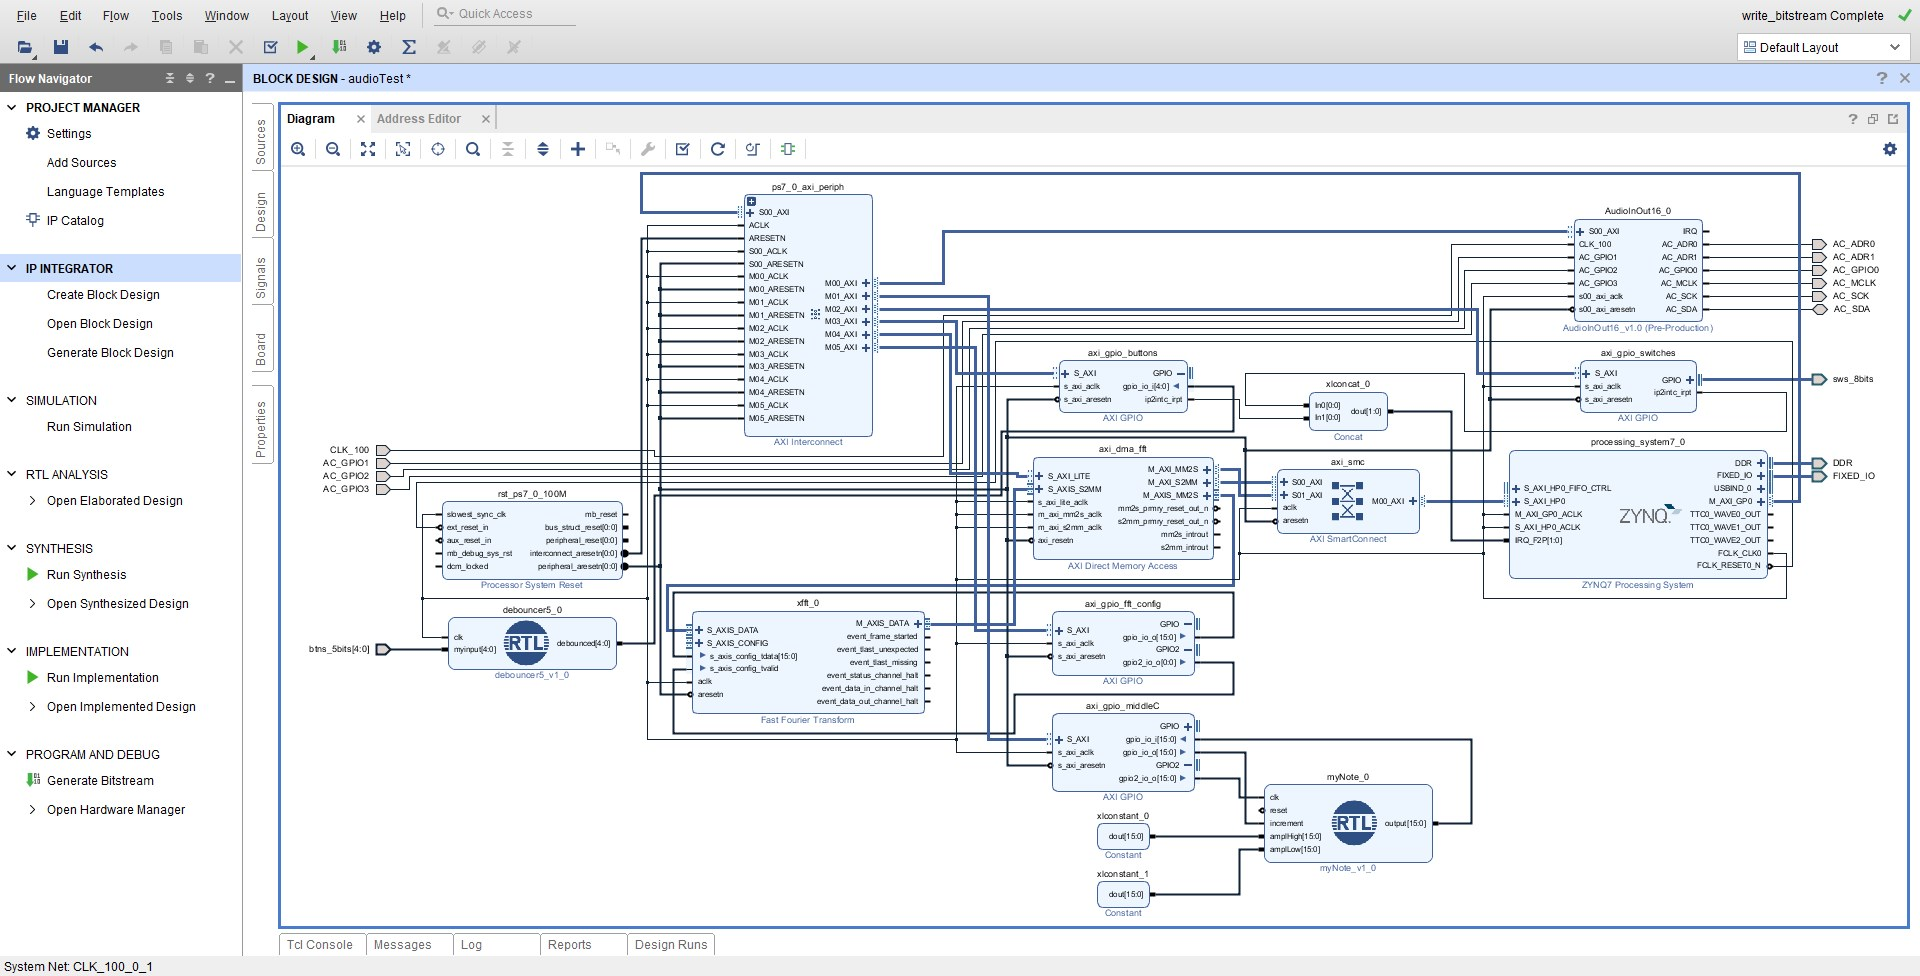
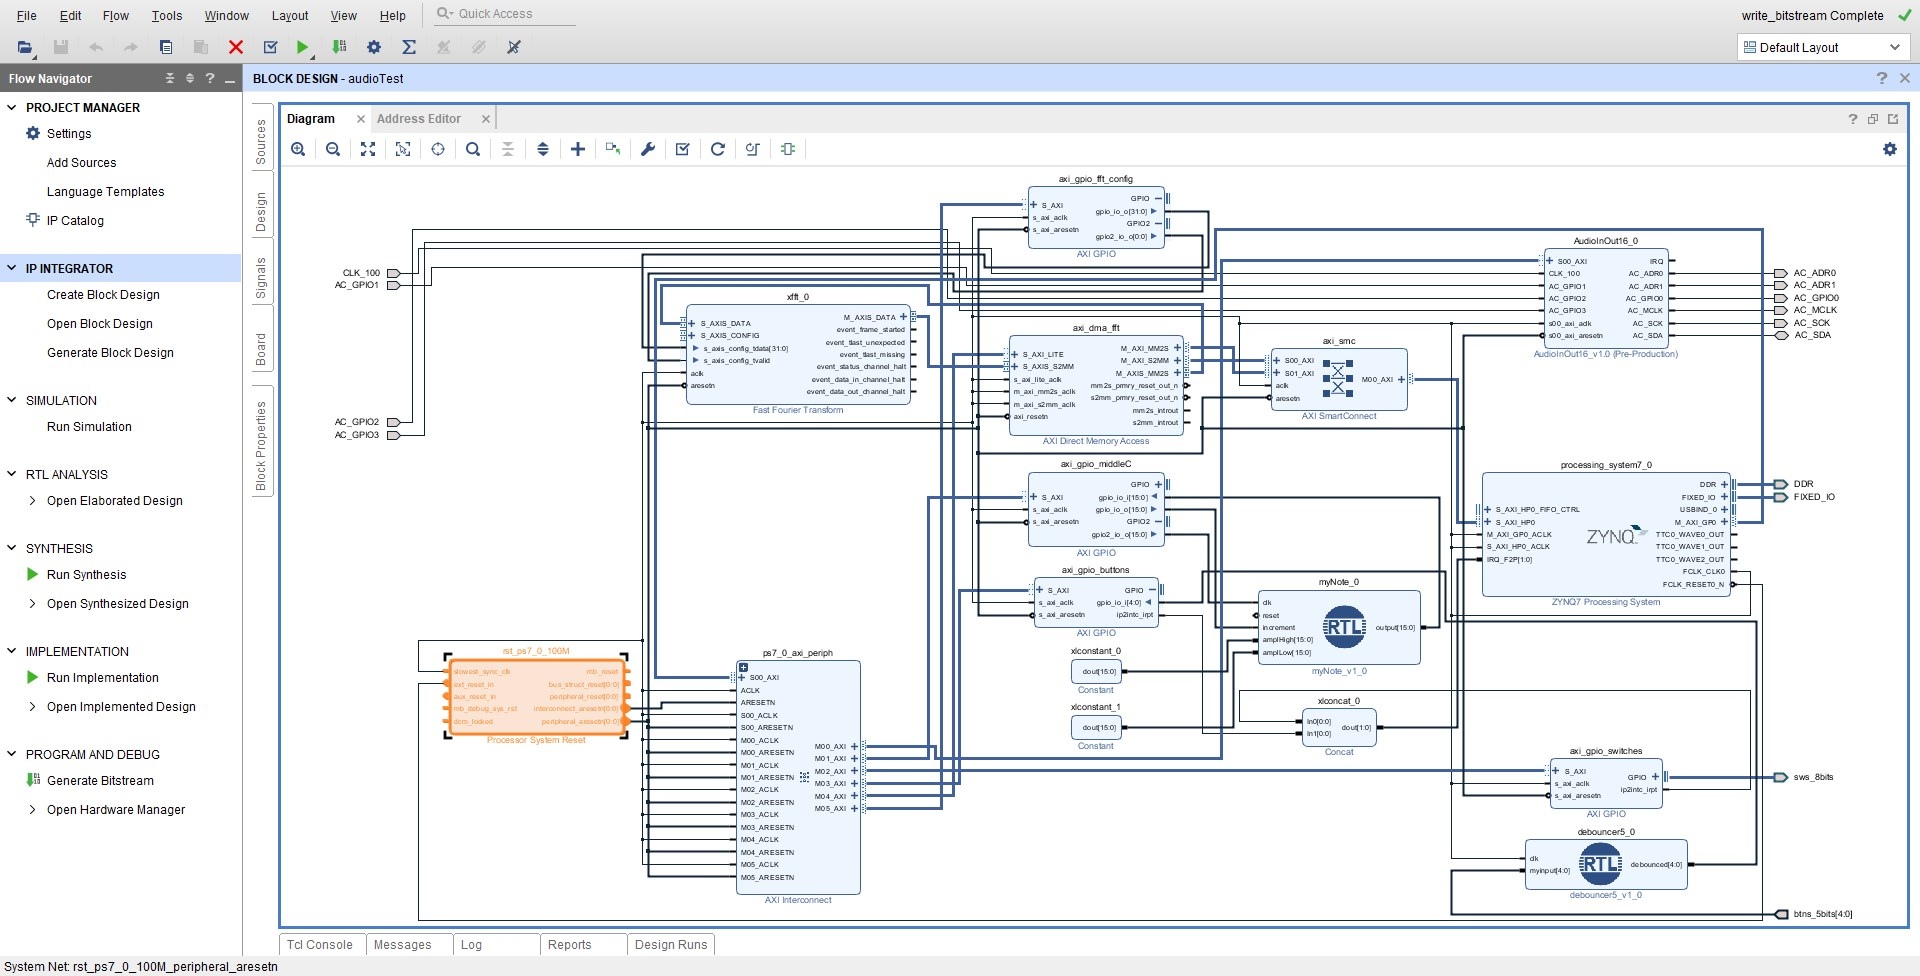
Change the AXI FFT to use 64-points instead of 8.

diff --git a/sdk/audioTest/src/helloworld.c b/sdk/audioTest/src/helloworld.c
@@ -73,7 +73,9 @@ volatile u32* AUDIOCHIP = ((volatile u32*)XPAR_AUDIOINOUT16_0_S00_AXI_BASEADDR);
 #define DEVICE_ID_TIMER					XPAR_PS7_SCUTIMER_0_DEVICE_ID
 #define DDR_BASE                  		XPAR_PS7_DDR_0_S_AXI_BASEADDR
 #define TX_BUFFER_BASE             		(DDR_BASE + 0x00100000)
+#define MX_BUFFER_BASE            		(DDR_BASE + 0x00300000)
 #define RX_BUFFER_BASE            		(DDR_BASE + 0x00400000)
+#define RX_SHIFT_BUFFER_BASE      		(DDR_BASE + 0x00500000)
 
 //#define INTERRUPTCONTROLLER_ADDRESS		XPAR_AXI_INTC_0_BASEADDR
 
@@ -91,6 +93,11 @@ static XScuTimer psTimer;					// PS Timer.
 static XScuTimer_Config *psTimerConfig;		// PS Timer config.
 int switches;
 
+// This function is responsible for getting data from audio FIFO 64 samples at a time
+// stores 64 samples in memory then sends it to FFT, then to IFFT
+void audioDriver();
+void getAudioData(); 
+void sendAudioData(); 
 // Initialize GPIO peripherals and the PS interrupt controller
 int initializePeripherals();
 
@@ -99,17 +106,28 @@ int initializePeripherals();
 // - Populates DDR with a test vector.
 // - Does a data transfer to and from the FFT core via the DMA
 //   to perform a forward FFT.
-int XAxiDma_FftDataTransfer(u16 DeviceId);
+int XAxiDma_FftDataTransfer(u16 DeviceId, volatile u64* TxBuf, volatile u64* RxBuf);
 
-// This function sets up the FFT core.
+//mirrors image
+int XAxiDma_IFftDataTransfer(u16 DeviceId);
+
+// This function sets up the FFT core with forward FFT.
 int XGpio_FftConfig();
+
+// This function configures the FFT core with inverse FFT
+//To get back the original data
+int XGpio_IFftConfig();
+
+//This function is to shift the IFFT output back
+void shiftBits(volatile u64* RxBuf);
+
 
 // This function is a loop to test the audio with GPIO switches.
 void audioLoop();
 
 int main()
 {
-	int status;
+
     init_platform();
 
     initializePeripherals();
@@ -136,12 +154,21 @@ int main()
 
     print("Hello World\n\r");
 
-    status = XAxiDma_FftDataTransfer(DEVICE_ID_DMA);
 
-	if (status != XST_SUCCESS) {
-		xil_printf("XAxiDma_SimplePoll Example Failed\r\n");
-		return XST_FAILURE;
-	}
+
+
+    // test data
+    /*TxBufferPtr[0] = 0x0000000000004000;
+    TxBufferPtr[1] = 0x00000000c6fae2f2;
+    TxBufferPtr[2] = 0x0000000033c7da62;
+    TxBufferPtr[3] = 0x000000000a033f36;
+    TxBufferPtr[4] = 0x00000000c322ec39;
+    TxBufferPtr[5] = 0x000000002d41d2bf;
+    TxBufferPtr[6] = 0x0000000013c73cde;
+    TxBufferPtr[7] = 0x00000000c0caf5fd;*/
+
+    audioDriver();
+
 
 	xil_printf("Successfully ran XAxiDma_SimplePoll Example\r\n");
 
@@ -229,12 +256,113 @@ int initializePeripherals() {
 	return status;
 }
 
+void audioDriver() {
+// first step is to read in 64 samples from
+
+	u32 dataIn = 0;
+	u32 dataOut = 0;
+	u32 temp = 0;
+	u32 tempLeft = 0;
+	u32 tempRight = 0;
+
+	int configStatus, status;
+
+	volatile u64 *TxBufferPtr;
+    volatile u64 *MxBufferPtr;
+    volatile u64 *RxBufferPtr;
+	volatile u64 *RxShiftBufferPtr;
+
+    TxBufferPtr = (u64 *)TX_BUFFER_BASE;
+    MxBufferPtr = (u64 *)MX_BUFFER_BASE;
+    RxBufferPtr = (u64 *)RX_BUFFER_BASE;
+	RxShiftBufferPtr = (u64 *)RX_SHIFT_BUFFER_BASE;
+	// loop on audio
+	while (1) {
+		//keep looping until we've read in 64 data samples
+		dataIn = 0;
+		while (dataIn < 64){
+			// check if the ADC FIFO is not empty
+			if ((AUDIOCHIP[0] & 1<<2)==0){
+				// get right and left channel
+				// pad with 0s for 64bit input to FFT
+				//0000RRRR0000LLLL
+				temp = AUDIOCHIP[2];
+				tempRight = temp & 0xFFFF0000;
+				tempLeft = temp & 0xFFFF;
+				tempRight>>=16;
+				TxBufferPtr[dataIn] = (((u64)tempRight << 32) | tempLeft);
+				dataIn++;
+			}
+		}
+		configStatus = XGpio_FftConfig();
+		status = XAxiDma_FftDataTransfer(DEVICE_ID_DMA, TxBufferPtr, MxBufferPtr);
+
+		if (status != XST_SUCCESS) {
+			xil_printf("XAxiDma_SimplePoll Example Failed\r\n");
+		return XST_FAILURE;
+		}
+		// want to convert data back so we send it through IFFT
+
+		configStatus = XGpio_IFftConfig();
+		status = XAxiDma_FftDataTransfer(DEVICE_ID_DMA, MxBufferPtr, RxBufferPtr);
+
+		if (status != XST_SUCCESS) {
+				xil_printf("XAxiDma_SimplePoll Example Failed\r\n");
+				return XST_FAILURE;
+			}
+		//need to convert output because it is shifted by 3 bits
+		shiftBits(RxBufferPtr);
+		dataOut = 0;
+		//now we want to check the DAC
+		while(dataOut < 64){
+			// if DAC FIFO is not FULL we can write data to it
+			if ((AUDIOCHIP[0] & 1<<5)==0) {
+				tempRight = RxShiftBufferPtr[dataOut]>>16;
+				tempLeft = RxShiftBufferPtr[dataOut];
+				temp = (tempRight & 0xFFFF0000)| (tempLeft & 0xFFFF);
+				AUDIOCHIP[1] = temp;
+				dataOut++;
+			}
+		}
+
+	}
+}
+
+void shiftBits(volatile u64* RxBuf){
+
+	const uint POINT_SIZE = 64;
+	volatile u64 *RxShiftBufferPtr;
+	u64 temp[POINT_SIZE];
+	RxShiftBufferPtr = (u64 *)RX_SHIFT_BUFFER_BASE;
+
+	for (int i=0;i<POINT_SIZE;i++){
+		temp[i] = (RxBuf[i] << 6) & 0xFFFF; // the LSB part
+		temp[i] = (((RxBuf[i] & 0xFFFF0000) << 6) & 0xFFFF0000) | temp[i]; // concatenating as we go
+		temp[i] = (((RxBuf[i] & 0xFFFF00000000) << 6) & 0xFFFF00000000) | temp[i];
+		//for the last one do we need to & it again ? i don't think so lol
+		temp[i] = ((RxBuf[i] & 0xFFFF000000000000) << 6) | temp[i];
+
+		if (i==0)
+			RxShiftBufferPtr[i] = temp[i];
+		else {
+			RxShiftBufferPtr[POINT_SIZE-i] = temp[i];
+		}
+	}
+	// now need to swap the order  of the bits
+
+
+
+}
+
 // This function does the following:
 // - Initializes the DMA.
 // - Populates DDR with a test vector.
 // - Does a data transfer to and from the FFT core via the DMA
 //   to perform a forward FFT.
-int XAxiDma_FftDataTransfer(u16 DeviceId){
+int XAxiDma_FftDataTransfer(u16 DeviceId, volatile u64* TxBuf, volatile u64* RxBuf){
+
+
+	// making these pointers global for the purpose of using same FFT core for forward and inverse
 
 
 	//****************** Configure the DMA ***********************************/
@@ -242,26 +370,6 @@ int XAxiDma_FftDataTransfer(u16 DeviceId){
 	XAxiDma_Config *CfgPtr;
 	int Status;
 	//int Tries = NUMBER_OF_TRANSFERS;
-	volatile u64 *TxBufferPtr;
-	volatile u64 *RxBufferPtr;
-
-	TxBufferPtr = (u64 *)TX_BUFFER_BASE ;
-	RxBufferPtr = (u64 *)RX_BUFFER_BASE;
-
-	/***********************************************/
-	// initialize transmission buffer  with sample data
-	//Simulated with a complex sinusoid from 0 to 2pi with
-	//2.6 times the frame size
-	TxBufferPtr[0] = 0x0000000000004000;
-	TxBufferPtr[1] = 0x00000000c6fae2f2;
-	TxBufferPtr[2] = 0x0000000033c7da62;
-	TxBufferPtr[3] = 0x000000000a033f36;
-	TxBufferPtr[4] = 0x00000000c322ec39;
-	TxBufferPtr[5] = 0x000000002d41d2bf;
-	TxBufferPtr[6] = 0x0000000013c73cde;
-	TxBufferPtr[7] = 0x00000000c0caf5fd;
-
-
 	/* Initialize the XAxiDma device.
 	 */
 	CfgPtr = XAxiDma_LookupConfig(DeviceId);
@@ -292,22 +400,22 @@ int XAxiDma_FftDataTransfer(u16 DeviceId){
 
 
 	// flush the cache
-	Xil_DCacheFlushRange((UINTPTR)TxBufferPtr, 0x40);
+	Xil_DCacheFlushRange((UINTPTR)TxBuf, 0x200);
 	//#ifdef __aarch64__
-		Xil_DCacheFlushRange((UINTPTR)RxBufferPtr, 0x40);
+		Xil_DCacheFlushRange((UINTPTR)RxBuf, 0x200);
 	//#endif
 
 		/**********************Start data transfer with FFT***************************/
 		//
-			Status = XAxiDma_SimpleTransfer(&axiDma,(UINTPTR) RxBufferPtr,
-						0x40, XAXIDMA_DEVICE_TO_DMA);
+			Status = XAxiDma_SimpleTransfer(&axiDma,(UINTPTR) RxBuf,
+						0x200, XAXIDMA_DEVICE_TO_DMA);
 
 			if (Status != XST_SUCCESS) {
 				return XST_FAILURE;
 			}
 
-			Status = XAxiDma_SimpleTransfer(&axiDma,(UINTPTR) TxBufferPtr,
-					0x40, XAXIDMA_DMA_TO_DEVICE);
+			Status = XAxiDma_SimpleTransfer(&axiDma,(UINTPTR) TxBuf,
+					0x200, XAXIDMA_DMA_TO_DEVICE);
 
 			if (Status != XST_SUCCESS) {
 				return XST_FAILURE;
@@ -319,14 +427,14 @@ int XAxiDma_FftDataTransfer(u16 DeviceId){
 							/* Wait */
 					}
 
-	 // want to convert data from hex to decimal to compare to data in MATLAB
-	for (int i =0; i<8; i++){
-		xil_printf("%d + i%d\n\r", (int16_t)(RxBufferPtr[i]), (int16_t)(RxBufferPtr[i]>>16));
-	}
 	return 0;
 }
 
-// This function sets up the FFT core.
+
+
+
+// This function sets up the FFT core
+
 int XGpio_FftConfig() {
 
 	/***********************Initialize GPIO**************************/
@@ -338,13 +446,39 @@ int XGpio_FftConfig() {
 
 	/********************Configure the FFT***********************/
 	// configure forward FFT for each channel
-	XGpio_DiscreteWrite(&gpioFftConfig, 1, 0x11);
+	// this is configuring for 010101...
+	// top 2 channels are IFFT bottom 2 are forward FFT
+	XGpio_DiscreteWrite(&gpioFftConfig, 1, 0x1555557);
+	//XGpio_DiscreteWrite(&gpioFftConfig, 1, 0b11);
 	// send valid signal
-	XGpio_DiscreteWrite(&gpioFftConfig, 2, 0x1);
+	// concatenated to the config
+	XGpio_DiscreteWrite(&gpioFftConfig, 2, 0b1);
 
 
 	return 0;
 }
+
+
+int XGpio_IFftConfig() {
+
+	/***********************Initialize GPIO**************************/
+	int status = XGpio_Initialize(&gpioFftConfig, DEVICE_ID_FFT_GPIO);
+	if (status != XST_SUCCESS ){
+		xil_printf("Initialization failed %d\r\n", status);
+		return XST_FAILURE;
+	}
+
+	/********************Configure the FFT***********************/
+	// configure forward FFT for each channel
+	// this is configuring for 010101...
+	// top 2 channels are IFFT bottom 2 are forward FFT
+	XGpio_DiscreteWrite(&gpioFftConfig, 1, 0x1555554);
+	//XGpio_DiscreteWrite(&gpioFftConfig, 1, 0b11);
+	// send valid signal
+	XGpio_DiscreteWrite(&gpioFftConfig, 2, 0b1);
+	return 0;
+}
+
 
 // This function is a loop to test the audio with GPIO switches.
 void audioLoop() {
@@ -393,3 +527,6 @@ void audioLoop() {
 		}
 	}
 }
+
+
+
